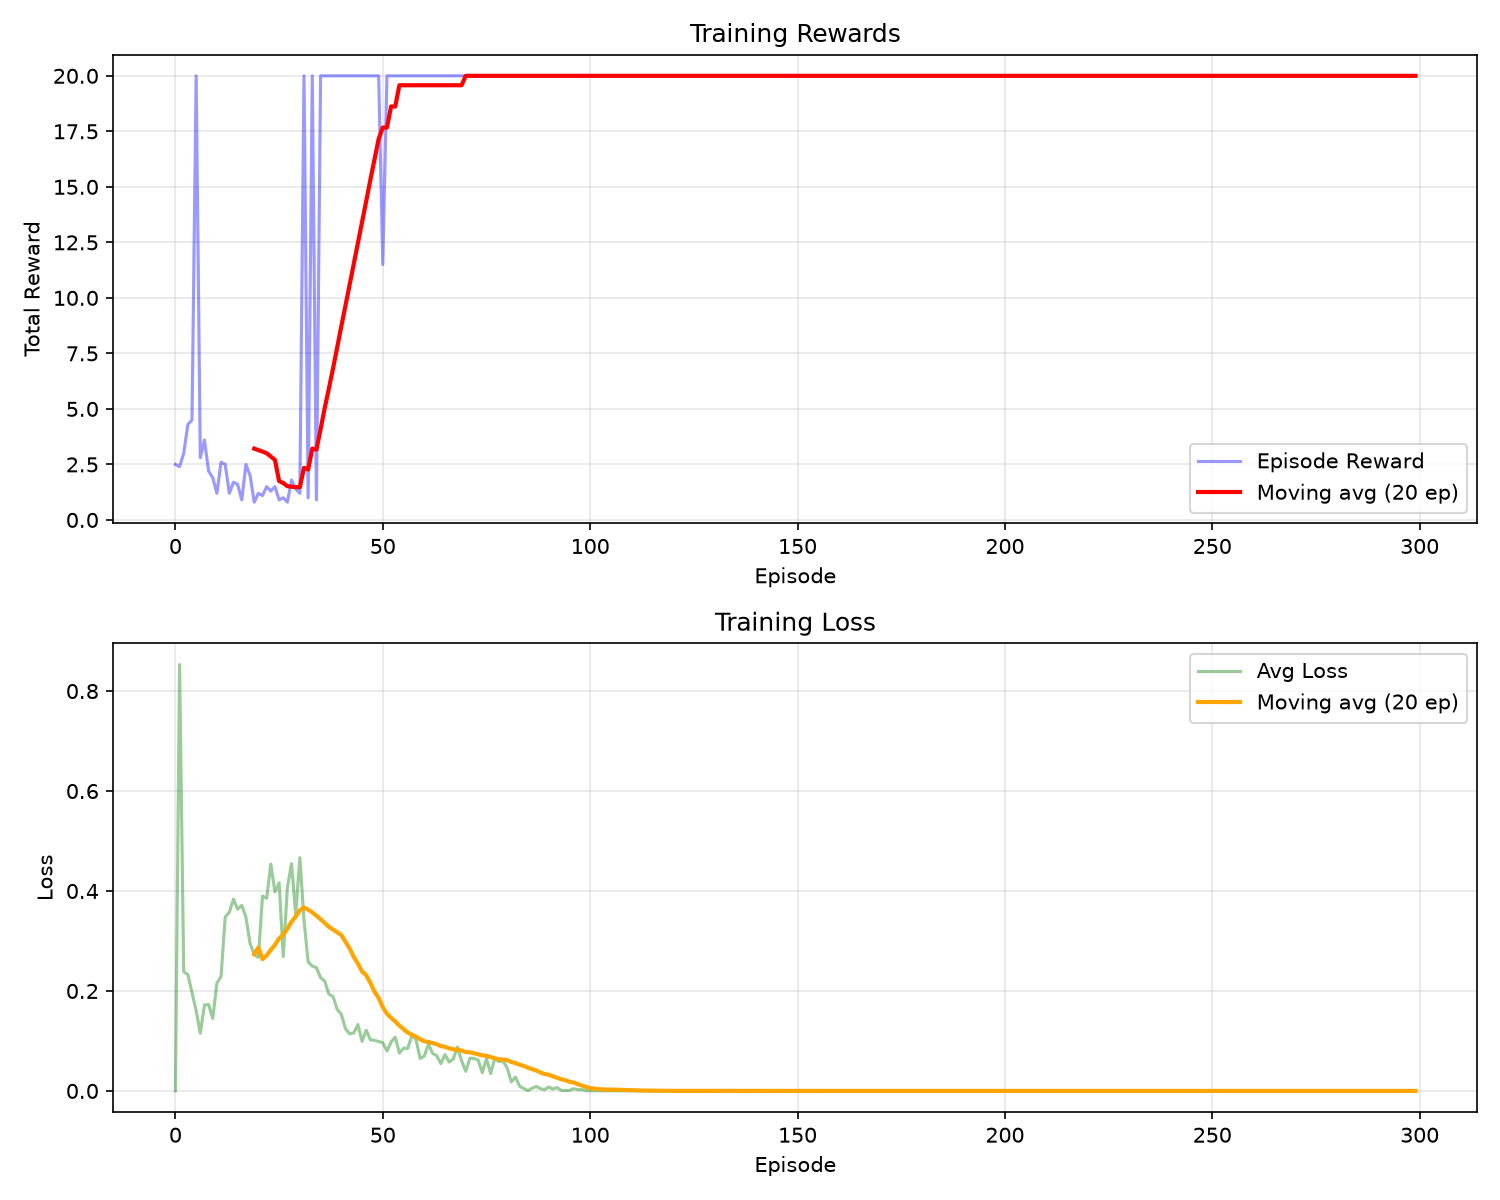
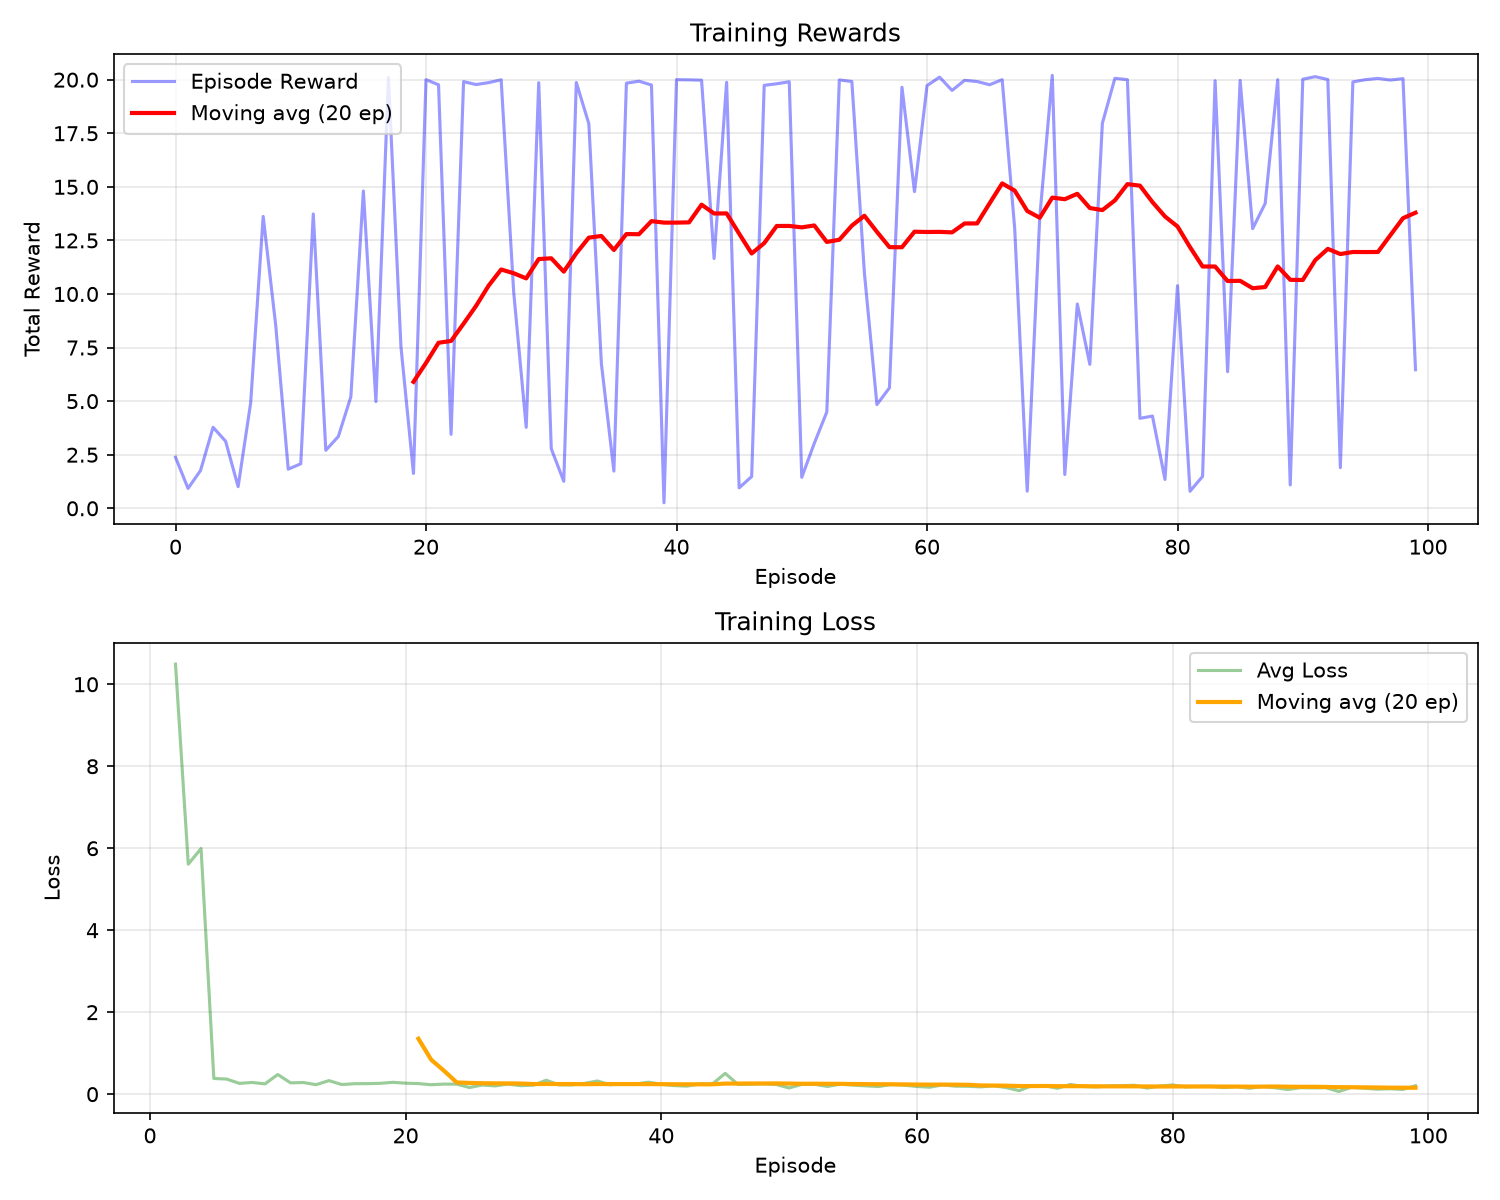
Resolve issue #106: Add some picture and visualisation of the project in the readme

diff --git a/scripts/compare_policies.py b/scripts/compare_policies.py
@@ -1,0 +1,105 @@
+"""Record a side-by-side GIF comparing the trained DQN policy vs a random policy."""
+
+import argparse
+import os
+
+import numpy as np
+
+from numpy_rl_racer.agent import DQNAgent, ACTIONS
+from numpy_rl_racer.env import CircularTrack, RacingEnv
+from numpy_rl_racer.rendering import MatplotlibRenderer
+
+
+def _record_episode(env, get_action, track, max_steps):
+    renderer = MatplotlibRenderer(track, headless=True)
+    renderer.start_recording()
+    state = env.reset(seed=42)
+    for step in range(max_steps):
+        action_idx = get_action(state)
+        next_state, reward, done, _ = env.step(ACTIONS[action_idx])
+        renderer.render(env.state, step=step, reward=reward)
+        state = next_state
+        if done:
+            break
+    renderer.render(env.state, step=step, reward=reward)
+    frames = renderer._recording_frames.copy()
+    renderer.close()
+    return frames
+
+
+def main(argv=None):
+    parser = argparse.ArgumentParser(
+        description="Compare trained vs random policy with a side-by-side GIF"
+    )
+    parser.add_argument("--model-path", default="models/best_model.npz")
+    parser.add_argument("--max-steps", type=int, default=200)
+    parser.add_argument("--save-dir", default="images")
+    parser.add_argument("--track", choices=["rectangular", "circular"], default="rectangular")
+    args = parser.parse_args(argv)
+
+    os.makedirs(args.save_dir, exist_ok=True)
+
+    if args.track == "circular":
+        track = CircularTrack(radius=6.0, track_width=2.0)
+        env = RacingEnv(track=track)
+    else:
+        track = env = RacingEnv().track
+        env = RacingEnv()
+
+    data = np.load(args.model_path)
+    if "arch_type" in data:
+        arch_type = int(data["arch_type"])
+        hidden_sizes = list(data["hidden_sizes"])
+        state_dim = int(data["state_dim"])
+        agent = DQNAgent(
+            state_dim=state_dim,
+            hidden_sizes=hidden_sizes,
+            use_dueling_dqn=(arch_type == 1),
+        )
+    else:
+        state_dim = data["layer_0_w"].shape[0]
+        agent = DQNAgent(state_dim=state_dim)
+    agent.load(args.model_path)
+    agent.epsilon = 0.0
+
+    rng = np.random.RandomState(0)
+
+    trained_frames = _record_episode(
+        env, lambda s: agent.act(s, training=False), track, args.max_steps
+    )
+    random_frames = _record_episode(
+        env, lambda s: rng.randint(len(ACTIONS)), track, args.max_steps
+    )
+
+    from PIL import Image, ImageDraw
+
+    n_frames = min(len(trained_frames), len(random_frames))
+    side_by_side = []
+    for i in range(n_frames):
+        h_t, w_t = trained_frames[i].shape[:2]
+        h_r, w_r = random_frames[i].shape[:2]
+        h = max(h_t, h_r)
+        w_total = w_t + w_r
+        canvas = np.zeros((h, w_total, 3), dtype=np.uint8)
+        canvas[:h_t, :w_t] = trained_frames[i]
+        canvas[:h_r, w_t:w_total] = random_frames[i]
+        img = Image.fromarray(canvas)
+        draw = ImageDraw.Draw(img)
+        draw.text((8, 6), "Trained policy", fill=(0, 200, 0))
+        draw.text((w_t + 8, 6), "Random policy", fill=(200, 0, 0))
+        side_by_side.append(img)
+
+    gif_path = os.path.join(args.save_dir, "trained_vs_random.gif")
+    duration = 100
+    side_by_side[0].save(
+        gif_path,
+        save_all=True,
+        append_images=side_by_side[1:],
+        duration=duration,
+        loop=0,
+    )
+    print(f"Saved {gif_path}")
+
+
+if __name__ == "__main__":
+    main()

diff --git a/tests/test_scripts.py b/tests/test_scripts.py
@@ -794,6 +794,35 @@ def test_grid_search_plot(tmp_path):
     assert os.path.getsize(plot_path) > 0
 
 
+# ---------------------------------------------------------------------------
+# Compare policies script tests
+# ---------------------------------------------------------------------------
+
+def _make_agent_checkpoint(path, state_dim=6):
+    agent = DQNAgent(state_dim=state_dim, hidden_sizes=[16], seed=0)
+    agent.save(path)
+
+
+def test_compare_policies_generates_gif(tmp_path):
+    scripts_dir = os.path.join(os.path.dirname(__file__), "..", "scripts")
+    orig_path = sys.path.copy()
+    sys.path.insert(0, scripts_dir)
+    try:
+        from compare_policies import main
+        model_path = str(tmp_path / "test_model.npz")
+        _make_agent_checkpoint(model_path, state_dim=6)
+        main([
+            "--model-path", model_path,
+            "--max-steps", "3",
+            "--save-dir", str(tmp_path),
+        ])
+        gifs = list(tmp_path.glob("*.gif"))
+        assert len(gifs) >= 1
+        assert all(g.stat().st_size > 0 for g in gifs)
+    finally:
+        sys.path[:] = orig_path
+
+
 def test_grid_search_seed(tmp_path):
     gs_main = _make_grid_search()
     csv_a = str(tmp_path / "a.csv")

diff --git a/README.md b/README.md
@@ -83,7 +83,7 @@ uv run python scripts/demo_render_env.py
 
 ## Training Results
 
-The DQN agent was trained for 300 episodes on the default rectangular track. The training curve below shows the episode reward and average loss.
+The DQN agent was trained for 100 episodes on the default rectangular track. The training curve below shows the episode reward and average loss.
 
 ![Training curve](images/training_curve.png)
 
@@ -92,6 +92,10 @@ After training, the greedy policy was evaluated for 3 episodes. Below are the fi
 | Episode 1 | Episode 2 | Episode 3 |
 |:---------:|:---------:|:---------:|
 | ![eval 1](images/eval_ep1_final.png) | ![eval 2](images/eval_ep2_final.png) | ![eval 3](images/eval_ep3_final.png) |
+
+The side-by-side animation below contrasts the **trained DQN policy** (left) with a **random policy** (right) on the same track starting from the same position. The trained agent consistently stays on track and completes laps, while the random agent drives off the track within a few steps.
+
+![Trained vs Random policy comparison](images/trained_vs_random.gif)
 
 ## Project constraints
 
@@ -123,6 +127,8 @@ Forbidden ML/RL dependencies:
 
 **Near term:**
 - [ ] **Procedural track generation** — Randomised track shapes using splines or bezier curves for greater variety
+- [ ] **Side-by-side policy comparison** — `scripts/compare_policies.py` records a GIF contrasting trained vs random policies; could be extended to compare algorithms, seeds, or checkpoints
+- [ ] **Higher-quality GIF rendering** — Increase resolution, add legends, speed overlay, and episode info to comparison animations
 - [ ] **Ray-casting lidar sensors** — Replace hand-crafted observations with configurable ray-based distance sensors
 - [ ] **Continuous action space** — Support for continuous steering & acceleration via policy gradient methods
 - [ ] **Frame skipping & action repeat** — Improve training speed and temporal consistency